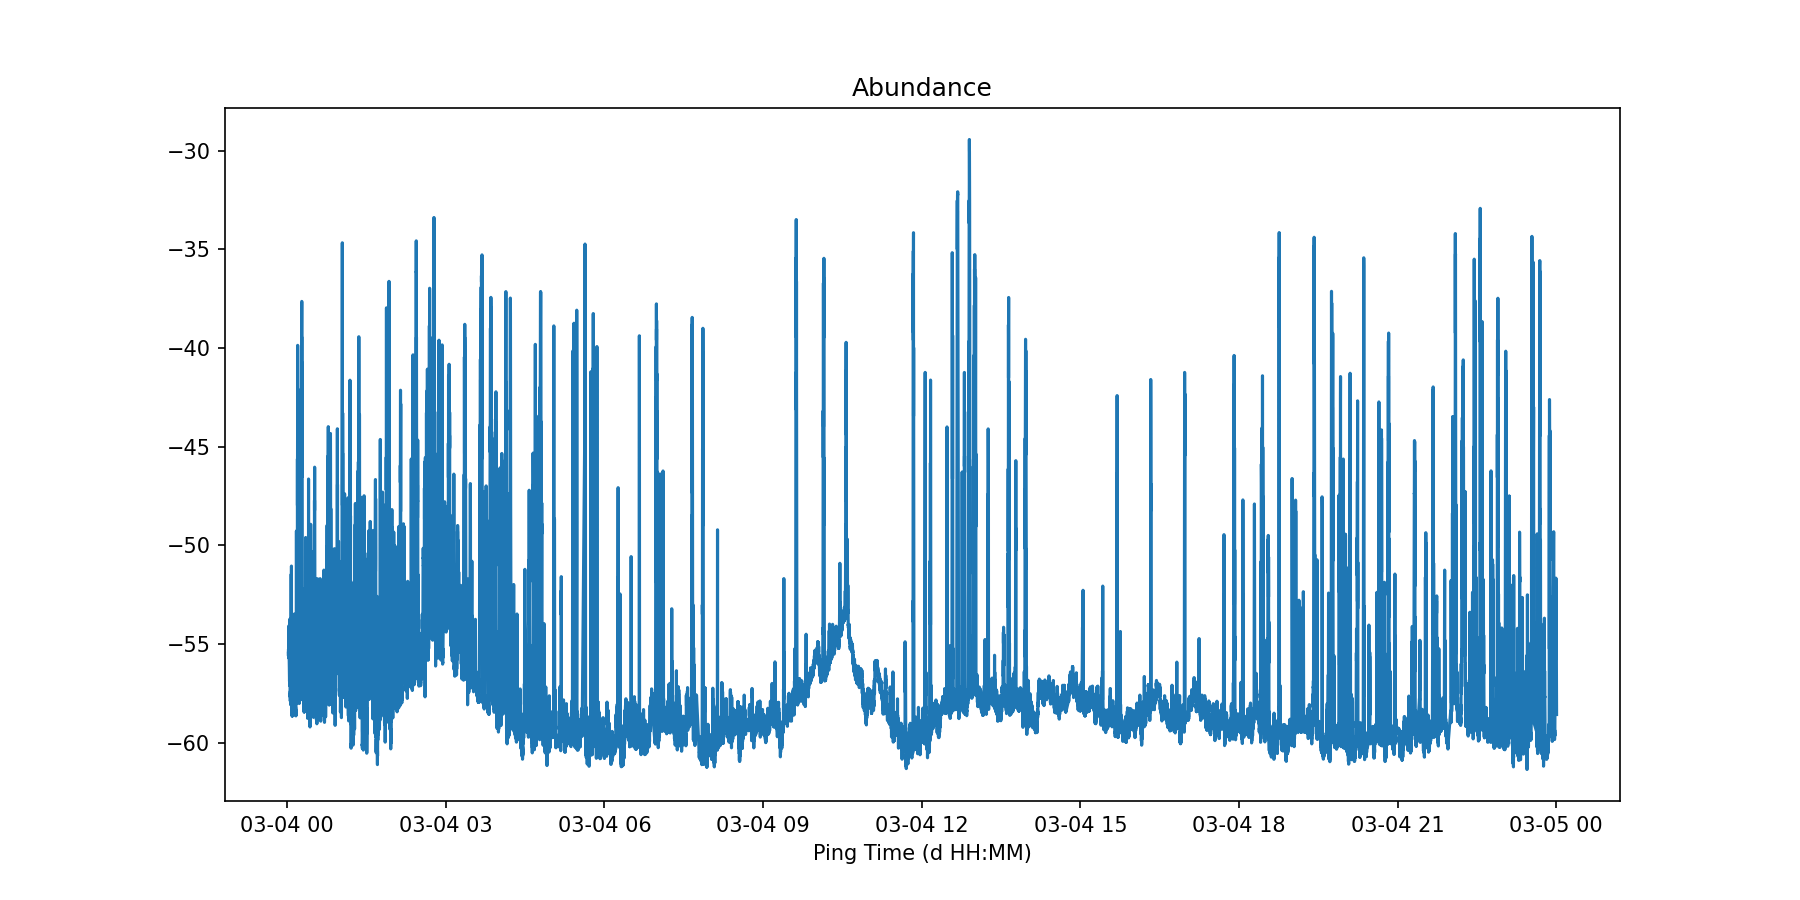
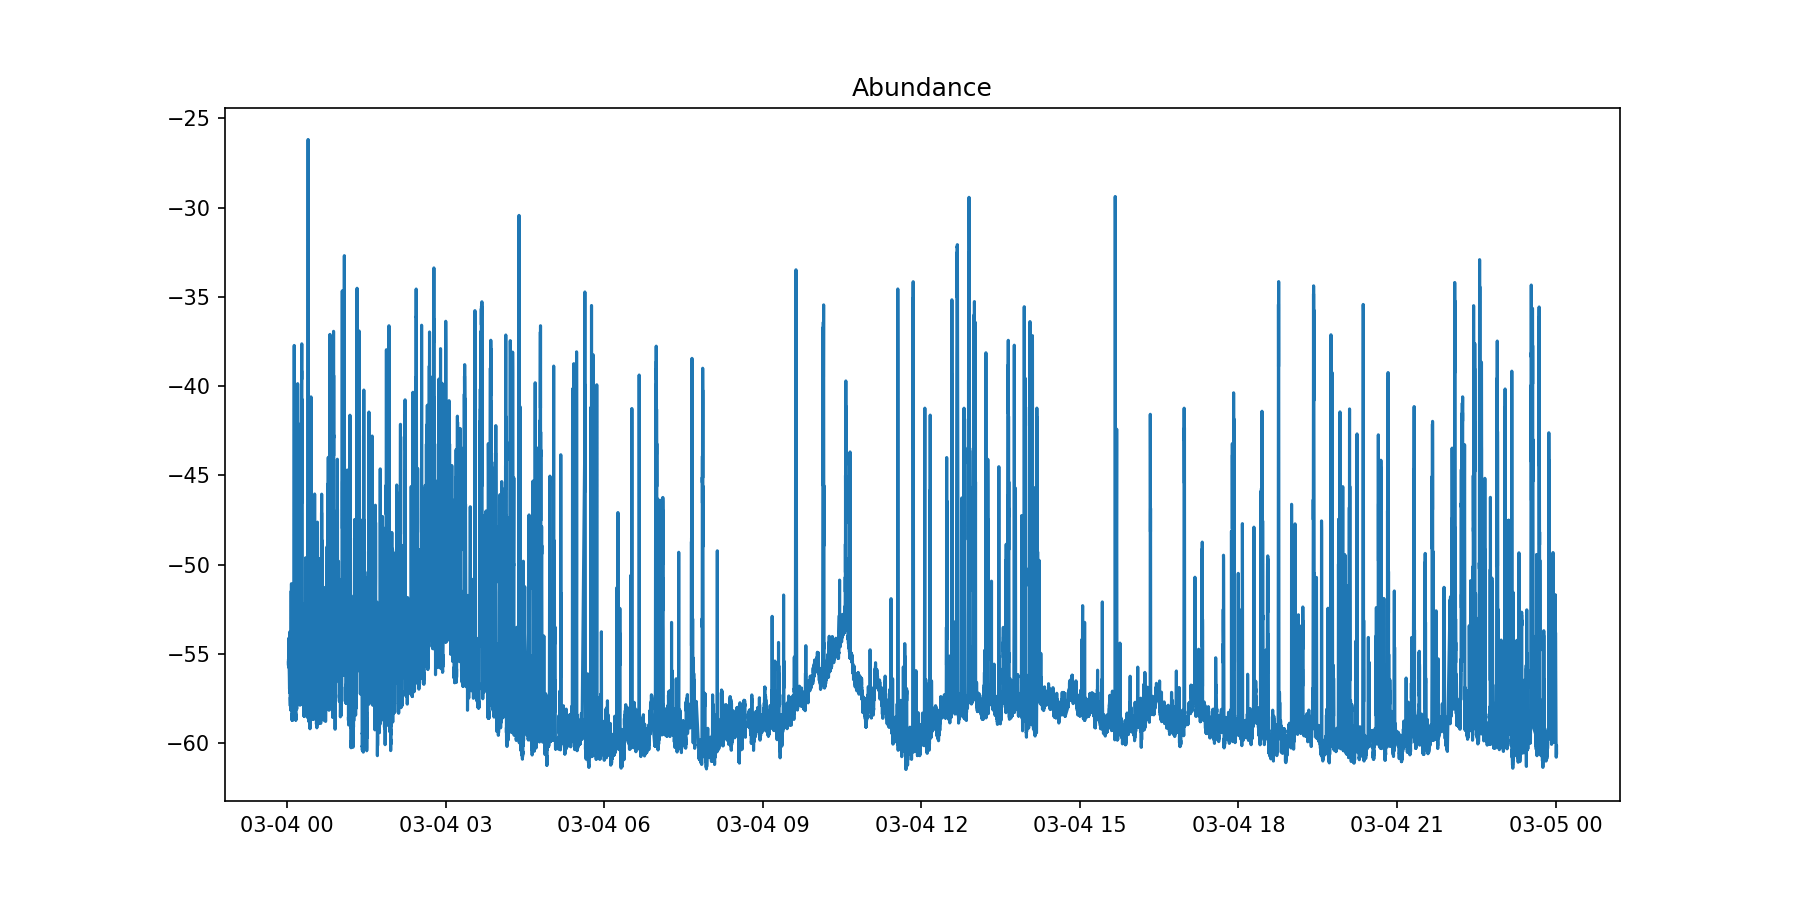
Center of mass plotted over echogram with 1 hour averaging

diff --git a/BlueEchoAnalysis.py b/BlueEchoAnalysis.py
@@ -28,6 +28,7 @@ import time
 import holoviews as hv
 import hvplot.xarray  # enables hvplot on xarray
 hv.extension('matplotlib')  # use Matplotlib backend
+import pandas as pd
 
 start = time.time()
 
@@ -42,7 +43,7 @@ Threshold = -90 # (dB) Filter the data and ignore data below Threshold (dB)
 
 # Time selection
 start_time = "2018-03-04 00:01:25" # Select subset of data
-end_time   = "2018-03-04 08:01:25" # Select subset of data
+end_time   = "2018-03-05 00:01:20" # Select subset of data
 
 # Range selection
 start_range = 30 # m
@@ -284,7 +285,29 @@ echogram = sv_sel_db.hvplot(
     fontsize={'title': 24, 'labels': 18, 'xticks': 16, 'yticks': 16,'cticks':14, 'clabel':14}  # increase font sizes
 )
 
-com_line = hv.Curve((sv_sel.ping_time, CenterofMass), 'ping_time', 'range').opts( color='red', linewidth=2 )
+# plot Center of Mass without averaging in time:
+# com_line = hv.Curve((sv_sel.ping_time, CenterofMass), 'ping_time', 'range').opts( color='red', linewidth=2 )
+
+# Plot Center of Mass averaged every 1 hour:
+# Assuming sv_sel.ping_time is a datetime64 column
+com_df = pd.DataFrame({
+    "ping_time": sv_sel.ping_time,
+    "CenterOfMass": CenterofMass
+})
+
+# Resample to 1-hour bins, averaging the CoM
+com_hourly = (
+    com_df.set_index("ping_time")
+    .resample("1H")["CenterOfMass"]
+    .mean()
+    .reset_index()
+)
+
+# Create curve from hourly-averaged values
+com_line = hv.Curve(
+    (com_hourly["ping_time"], com_hourly["CenterOfMass"]),
+    'ping_time', 'range'
+).opts(color='red', linewidth=2)
 
 # Overlay
 final_plot = echogram * com_line
